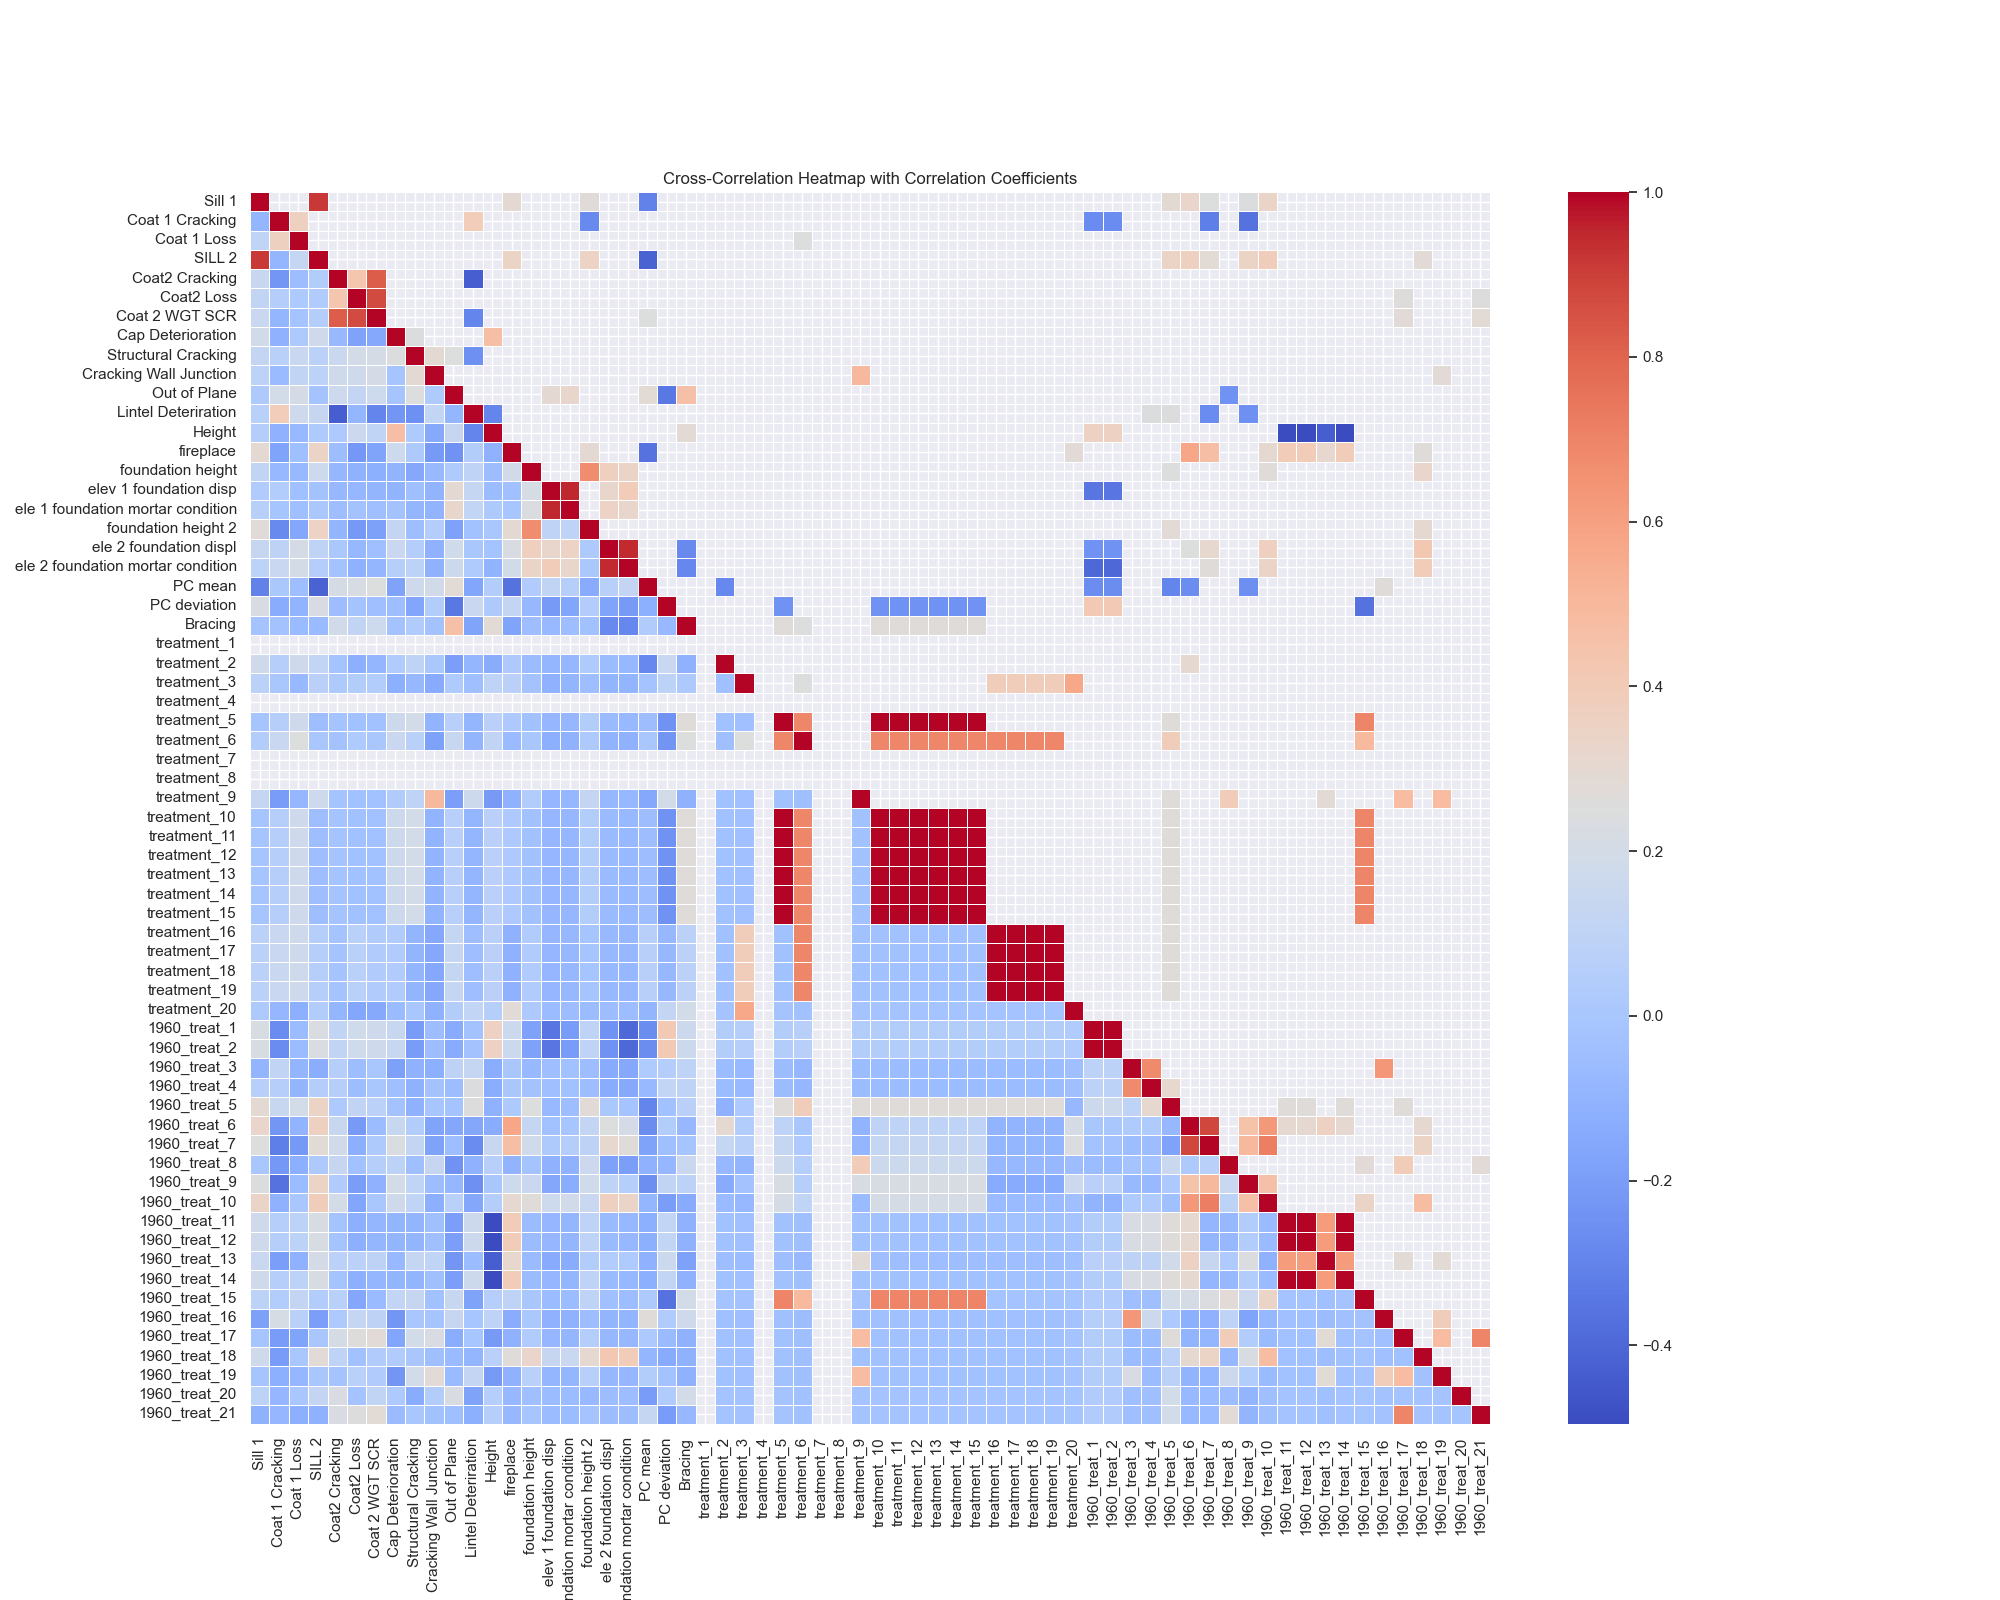
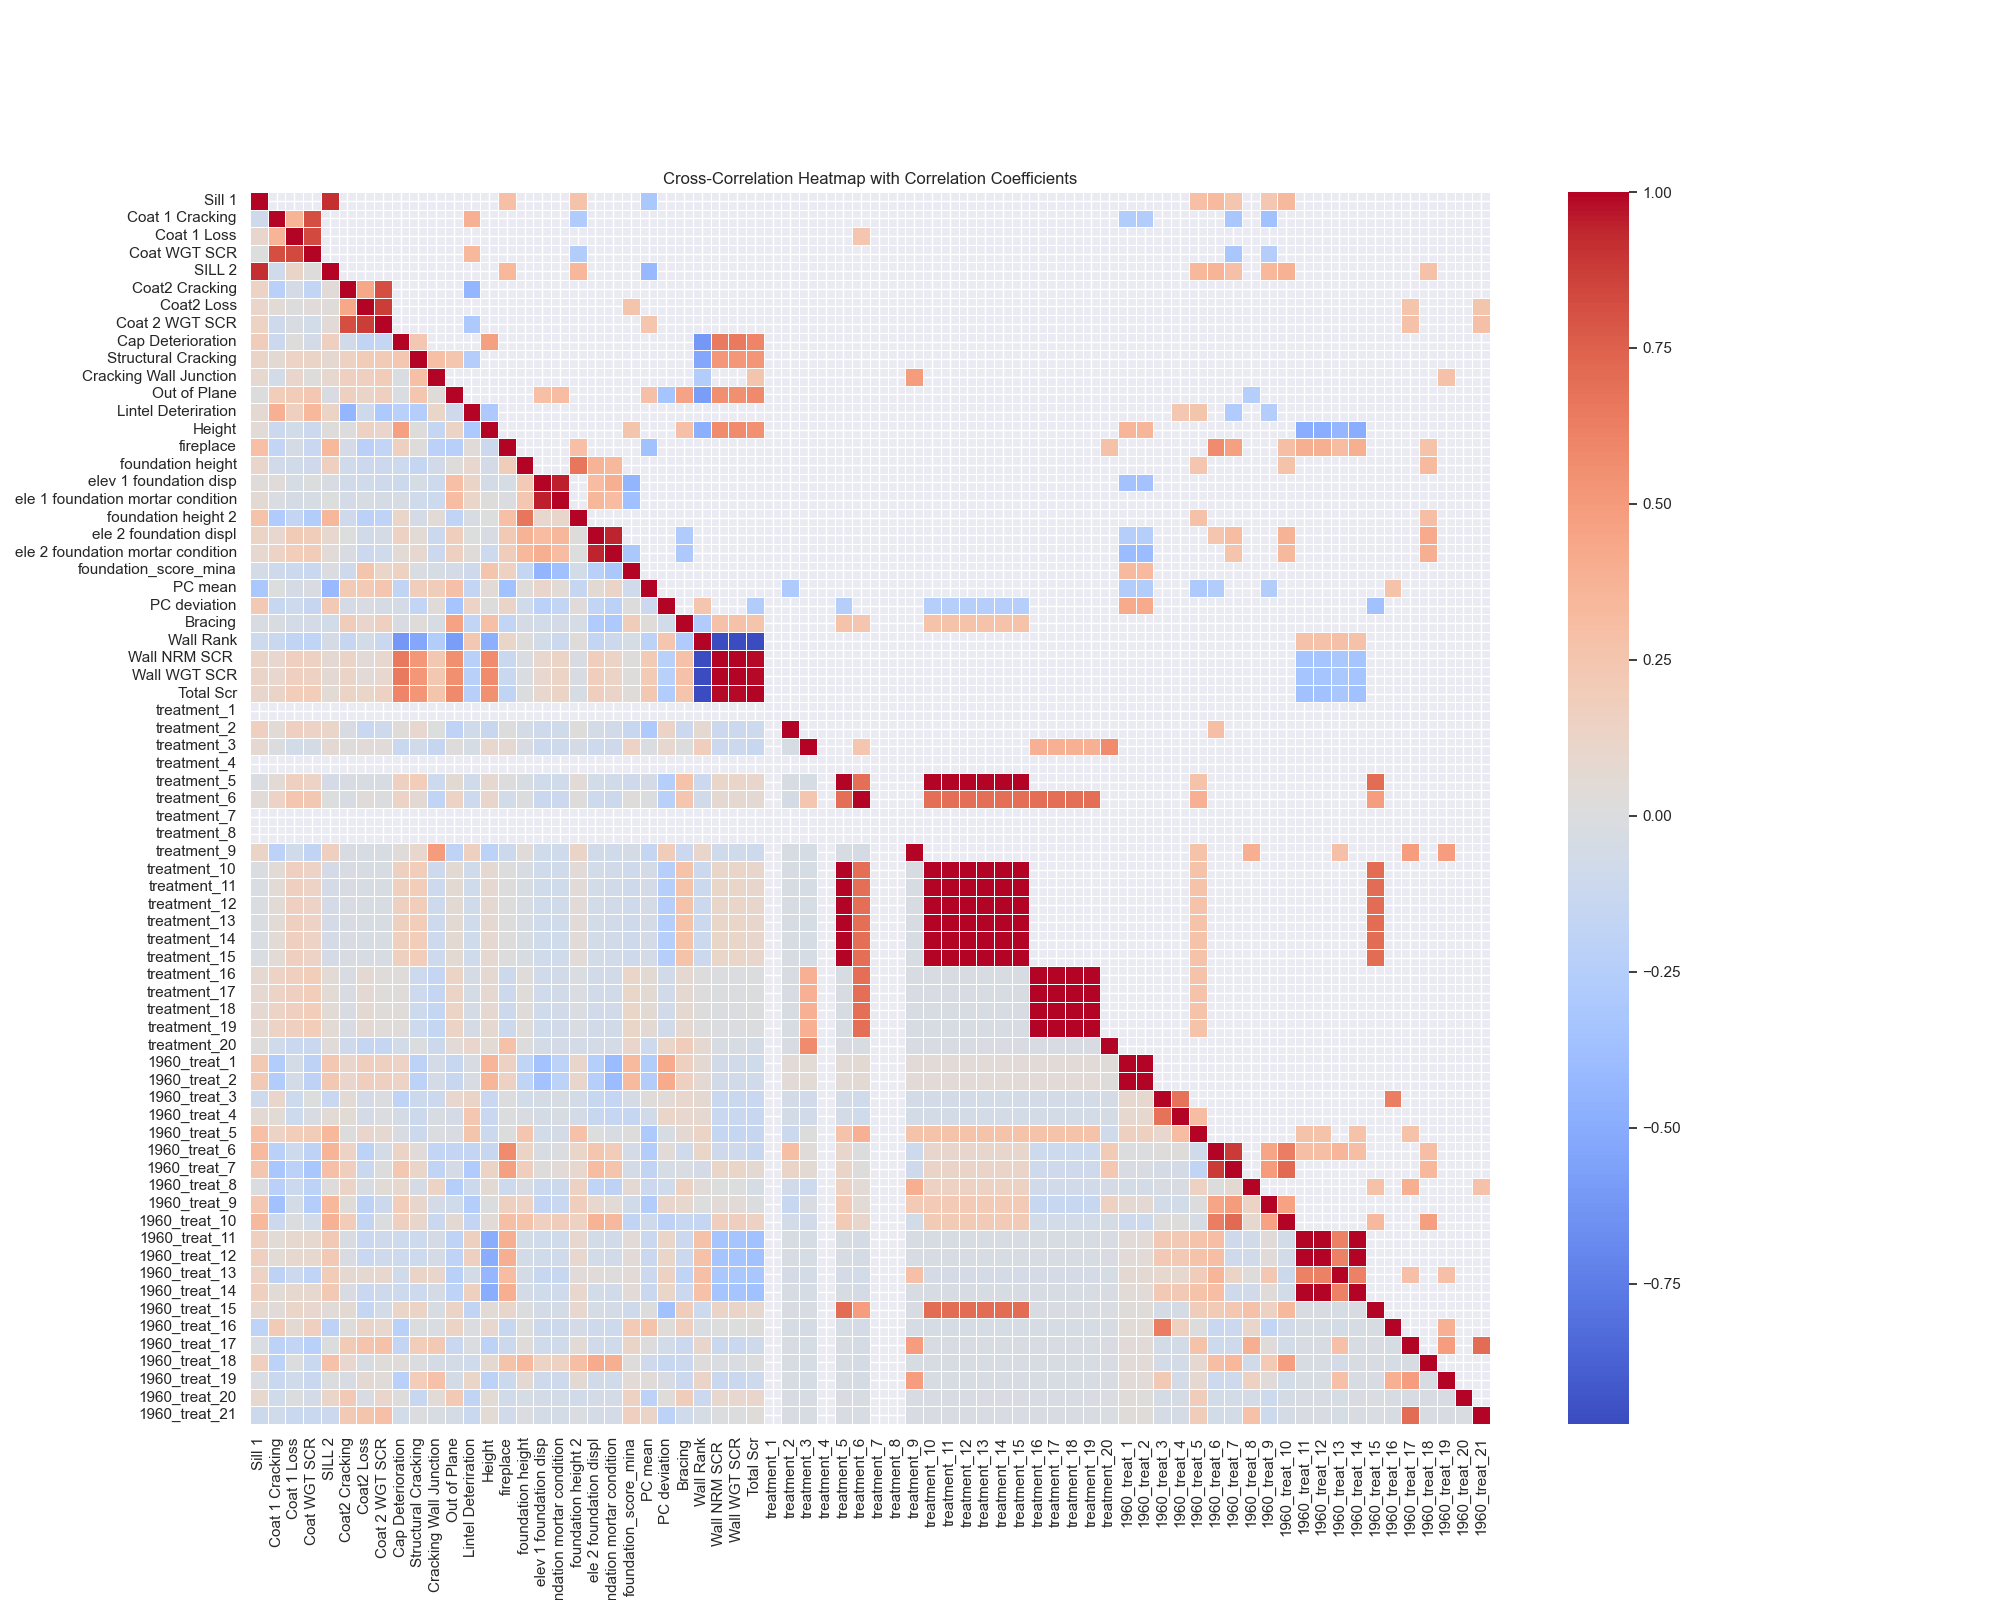
code to make histograms for statistically significant features

diff --git a/hist_sig.py b/hist_sig.py
@@ -1,0 +1,68 @@
+# Create a histogram of significant features
+# with treatment
+import matplotlib.pyplot as plt
+from collections import Counter
+
+# Combine 'Variable 1' and 'Variable 2' into a single column
+variable_names = pd.concat([df_significant['Variable 1'], df_significant['Variable 2']])
+
+# Count the frequency of each variable
+variable_counts = variable_names.value_counts()
+
+# Count the frequency of each variable
+variable_counts = Counter(variable_names)
+
+# Extract the most common N variables and their counts (adjust N as needed)
+top_N = 10  # You can change this to show more or fewer variables
+most_common_variables = variable_counts.most_common(top_N)
+
+# Separate variable names and their counts
+most_common_names, most_common_counts = zip(*most_common_variables)
+
+# Create a bar chart (histogram) for the top N most frequent variables
+plt.figure(figsize=(12, 6))
+plt.barh(most_common_names, most_common_counts, color='skyblue')
+plt.xlabel('Frequency')
+plt.ylabel('Variable Names')
+plt.title('Frequency Distribution of Top {} Variables'.format(top_N))
+plt.gca().invert_yaxis()  # Invert y-axis for better readability
+plt.show()
+
+#without treatment
+
+import matplotlib.pyplot as plt
+from collections import Counter
+import textwrap
+
+# Filter the DataFrame to exclude rows where the 'p' column is smaller than E-10
+df_filtered = df_significant[df_significant['p-value'] >= 1e-10]
+
+# Combine 'Variable 1' and 'Variable 2' into a single column
+variable_names = pd.concat([df_filtered['Variable 1'], df_filtered['Variable 2']])
+
+# Count the frequency of each variable
+variable_counts = variable_names.value_counts()
+
+# Filter out variables containing the word "treat"
+variable_counts_filtered = variable_counts[~variable_counts.index.str.contains('treat', case=False)]
+
+# Extract the most common N variables and their counts (adjust N as needed)
+top_N = 10  # You can change this to show more or fewer variables
+most_common_variables = variable_counts_filtered.head(top_N)
+
+# Separate variable names and their counts
+most_common_names = most_common_variables.index
+most_common_counts = most_common_variables.values
+
+# Create a bar chart (histogram) for the top N most frequent variables
+plt.figure(figsize=(12, 6))
+plt.barh(most_common_names, most_common_counts, color='skyblue')
+plt.xlabel('Frequency')
+plt.ylabel('Variable Names')
+plt.title('Frequency Distribution of Top {} Variables (Excluding "treatment" and p < 1e-10)'.format(top_N))
+
+# Adjust y-axis tick labels to wrap text
+plt.gca().invert_yaxis()  # Invert y-axis for better readability
+plt.yticks(range(len(most_common_names)), [textwrap.fill(name, 20) for name in most_common_names])  # Adjust the 20 for desired line length
+plt.tight_layout()  # Ensure proper spacing
+plt.show()

diff --git a/crossCorr.py b/crossCorr.py
@@ -24,6 +24,7 @@ df = df.drop(columns=df.columns[columns_to_drop])
 # df_cleaned = df.dropna() # takes away too many
 
 columns_to_drop = ['Coat WGT SCR', 'Coat 4 WGT SCR', 'Wall NRM SCR ', 'Wall WGT SCR', 'Total Scr', 'Wall Rank']
+#columns_to_drop = []
 
 # Use the .drop() method to remove the specified columns
 #df = df.drop(columns=columns_to_drop)
@@ -74,12 +75,12 @@ significant_relationships.sort(key=lambda x: abs(x[2]), reverse=True)
 df_significant = pd.DataFrame(significant_relationships, columns=["Variable 1", "Variable 2", "Correlation", "p-value"])
 
 # Save the DataFrame to a CSV file
-df_significant.to_csv(date+'significant_relationships.csv', index=False)
+df_significant.to_csv(date+'significant_relationships_dropped.csv', index=False)
 
 # Print the significant relationships in order of magnitude
-for relationship in significant_relationships:
-    col1, col2, corr, p_value = relationship
-    print(f"{col1} - {col2}: Correlation = {corr:.2f}, p-value = {p_value:.4f}")
+#for relationship in significant_relationships:
+#    col1, col2, corr, p_value = relationship
+#    print(f"{col1} - {col2}: Correlation = {corr:.2f}, p-value = {p_value:.4f}")
 
 # Create a mask for statistically significant correlations
 mask = p_values >= alpha
@@ -90,4 +91,4 @@ sns.set(font_scale=1)
 sns.heatmap(correlation_matrix, annot=False, mask=mask, cmap='coolwarm', linewidths=0.5, fmt=".2f")
 
 plt.title('Cross-Correlation Heatmap with Correlation Coefficients')
-plt.savefig(date+'heatmap.png')  # Save the figure to a file
+plt.savefig(date+'heatmap_dropped.png')  # Save the figure to a file
